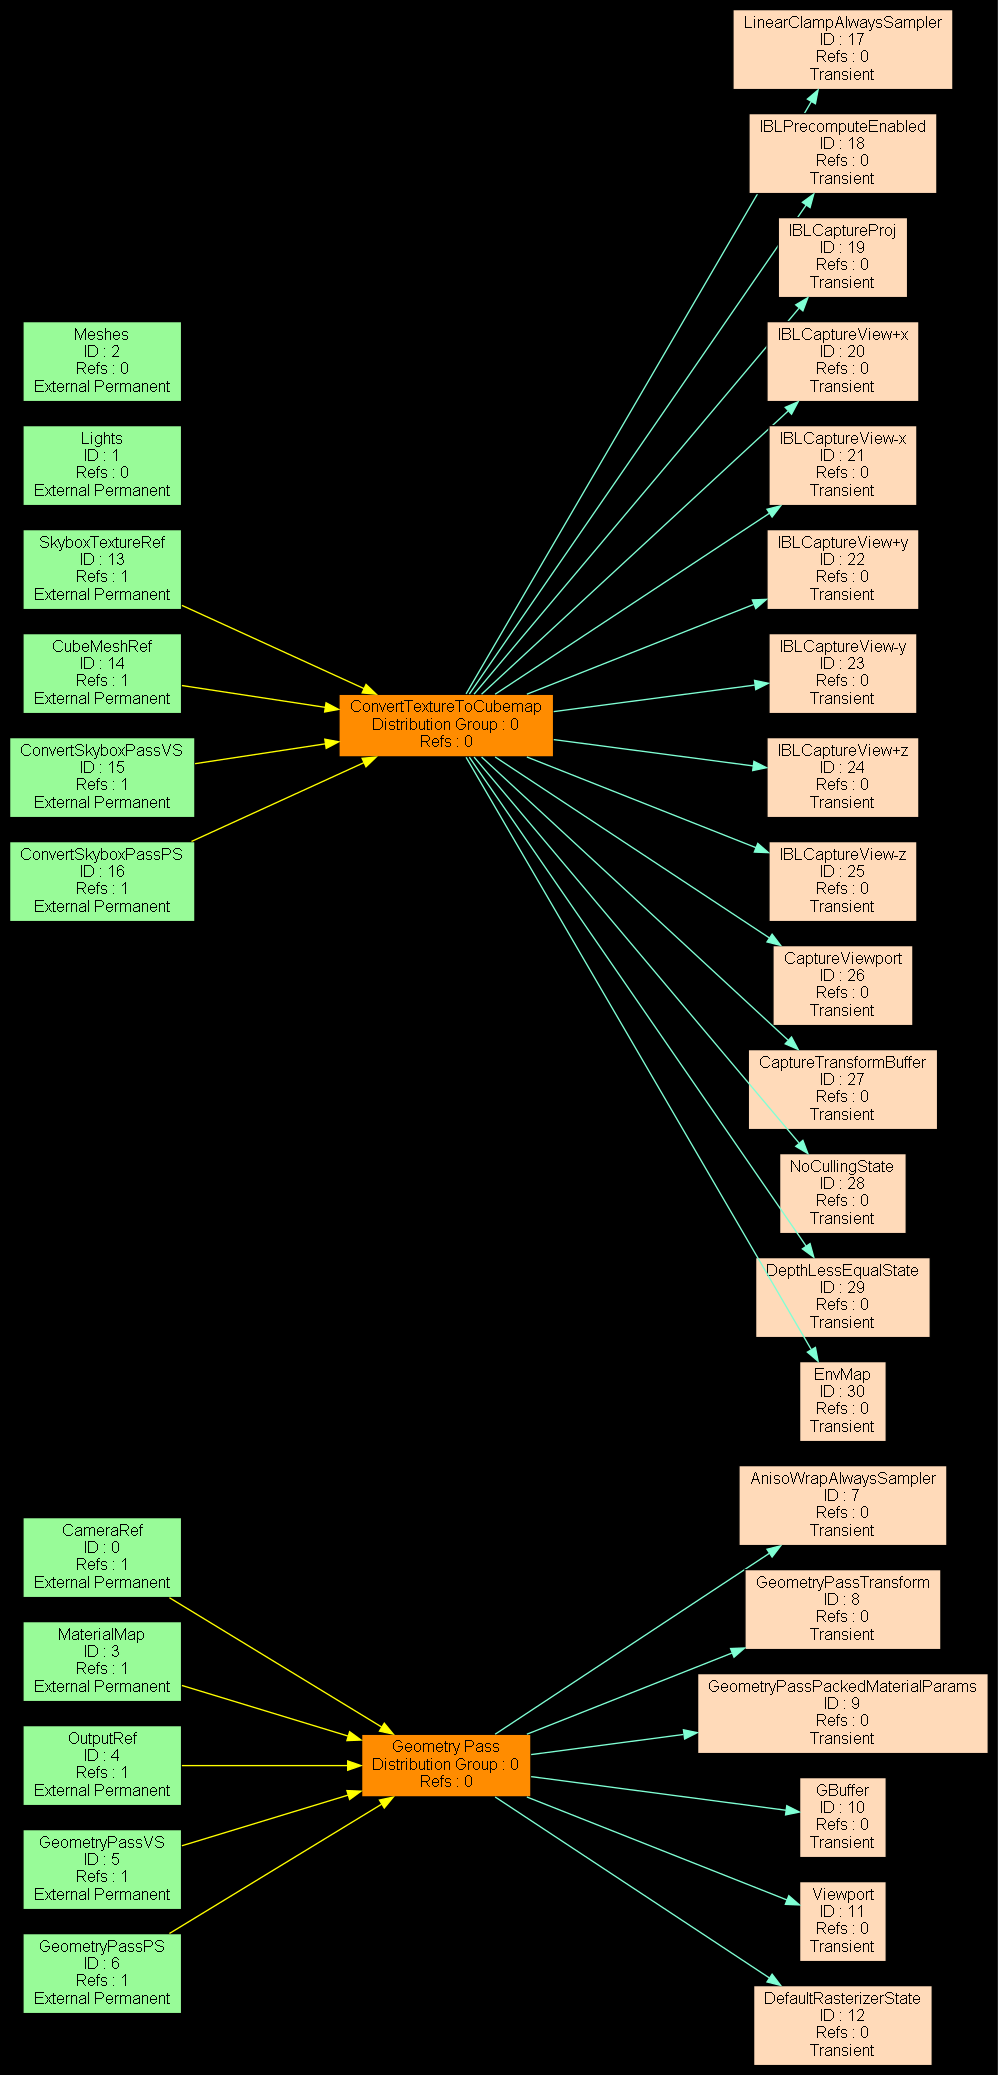
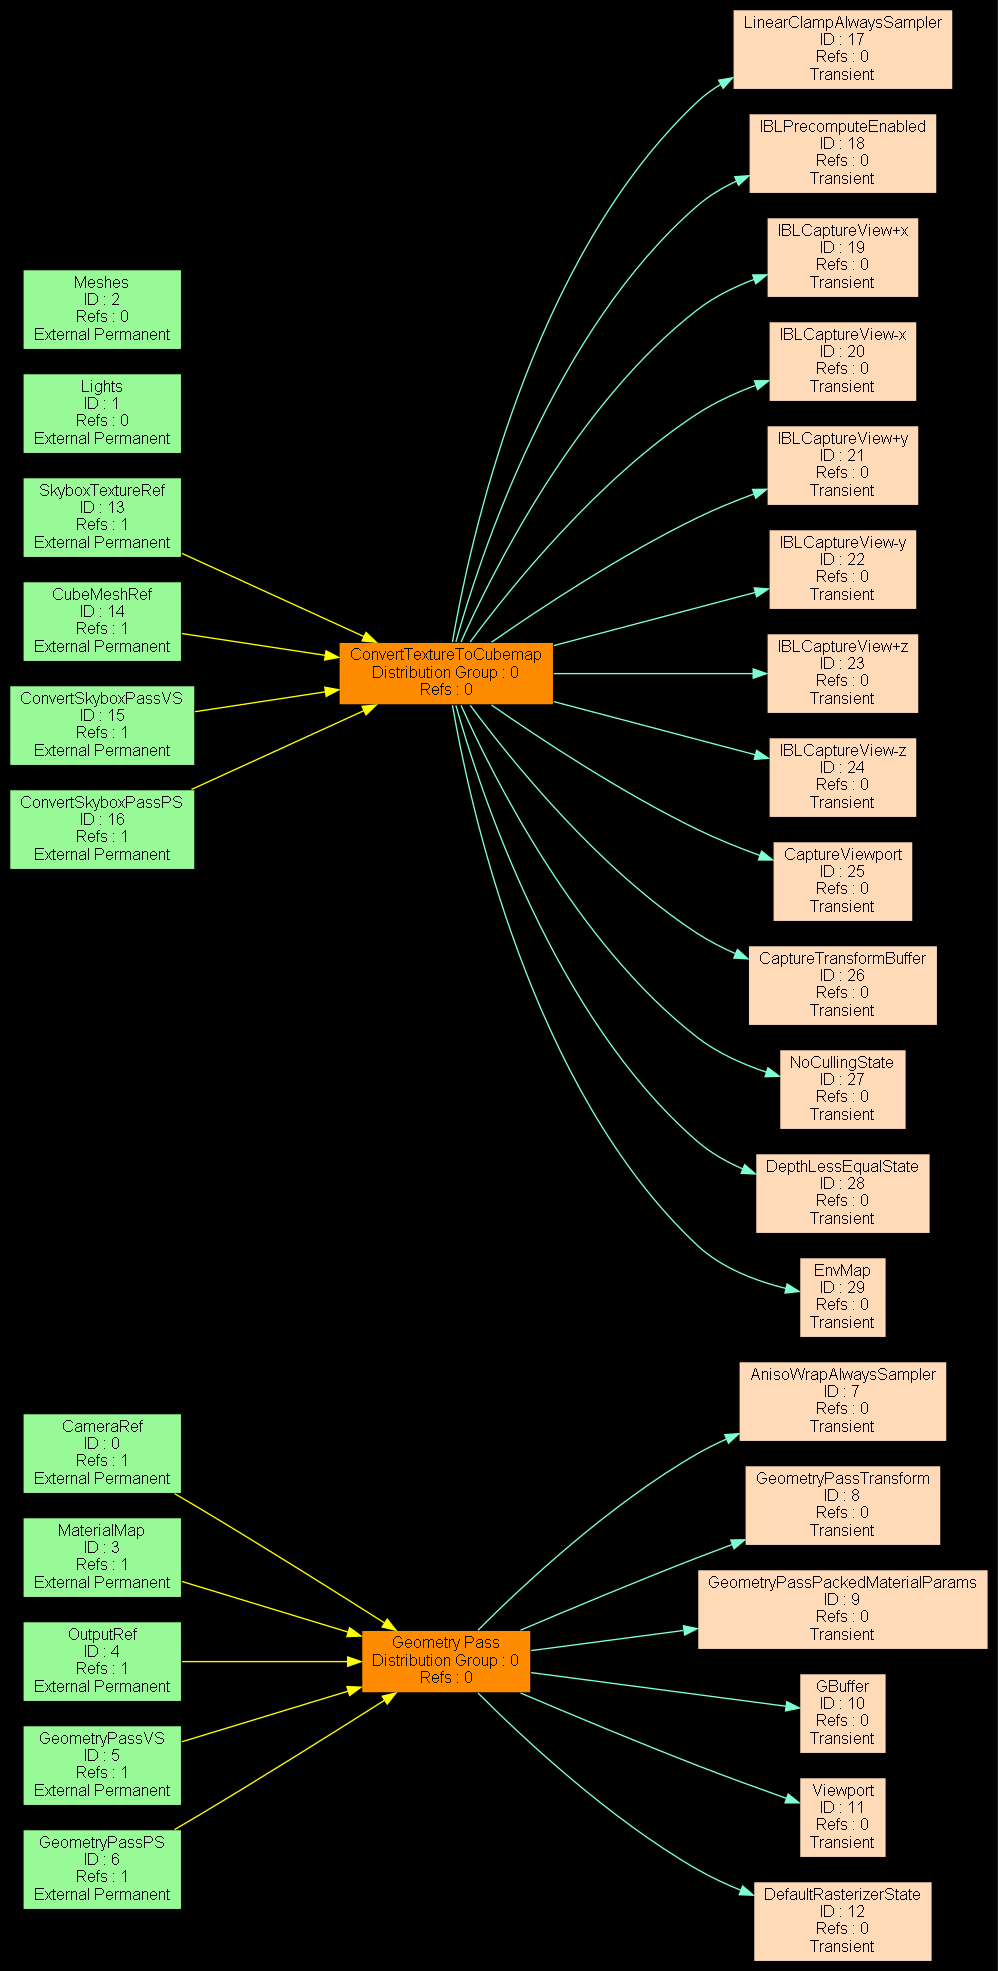
RendererPBR의 Frame graph를 spline이 적용되어 출력되도록 하였습니다

diff --git a/Sources/Runtime/Rendering/RendererPBR.cpp b/Sources/Runtime/Rendering/RendererPBR.cpp
@@ -584,7 +584,10 @@ namespace Mile
       /** Post-process Pass */
 
       m_frameGraph.Compile();
-      m_frameGraph.ExportVisualization("RendererPBR.dot");
+
+      Elaina::VisualizeParams visualizeParams;
+      visualizeParams.bSplines = true;
+      m_frameGraph.ExportVisualization("RendererPBR.dot", visualizeParams);
       return true;
    }
 }
